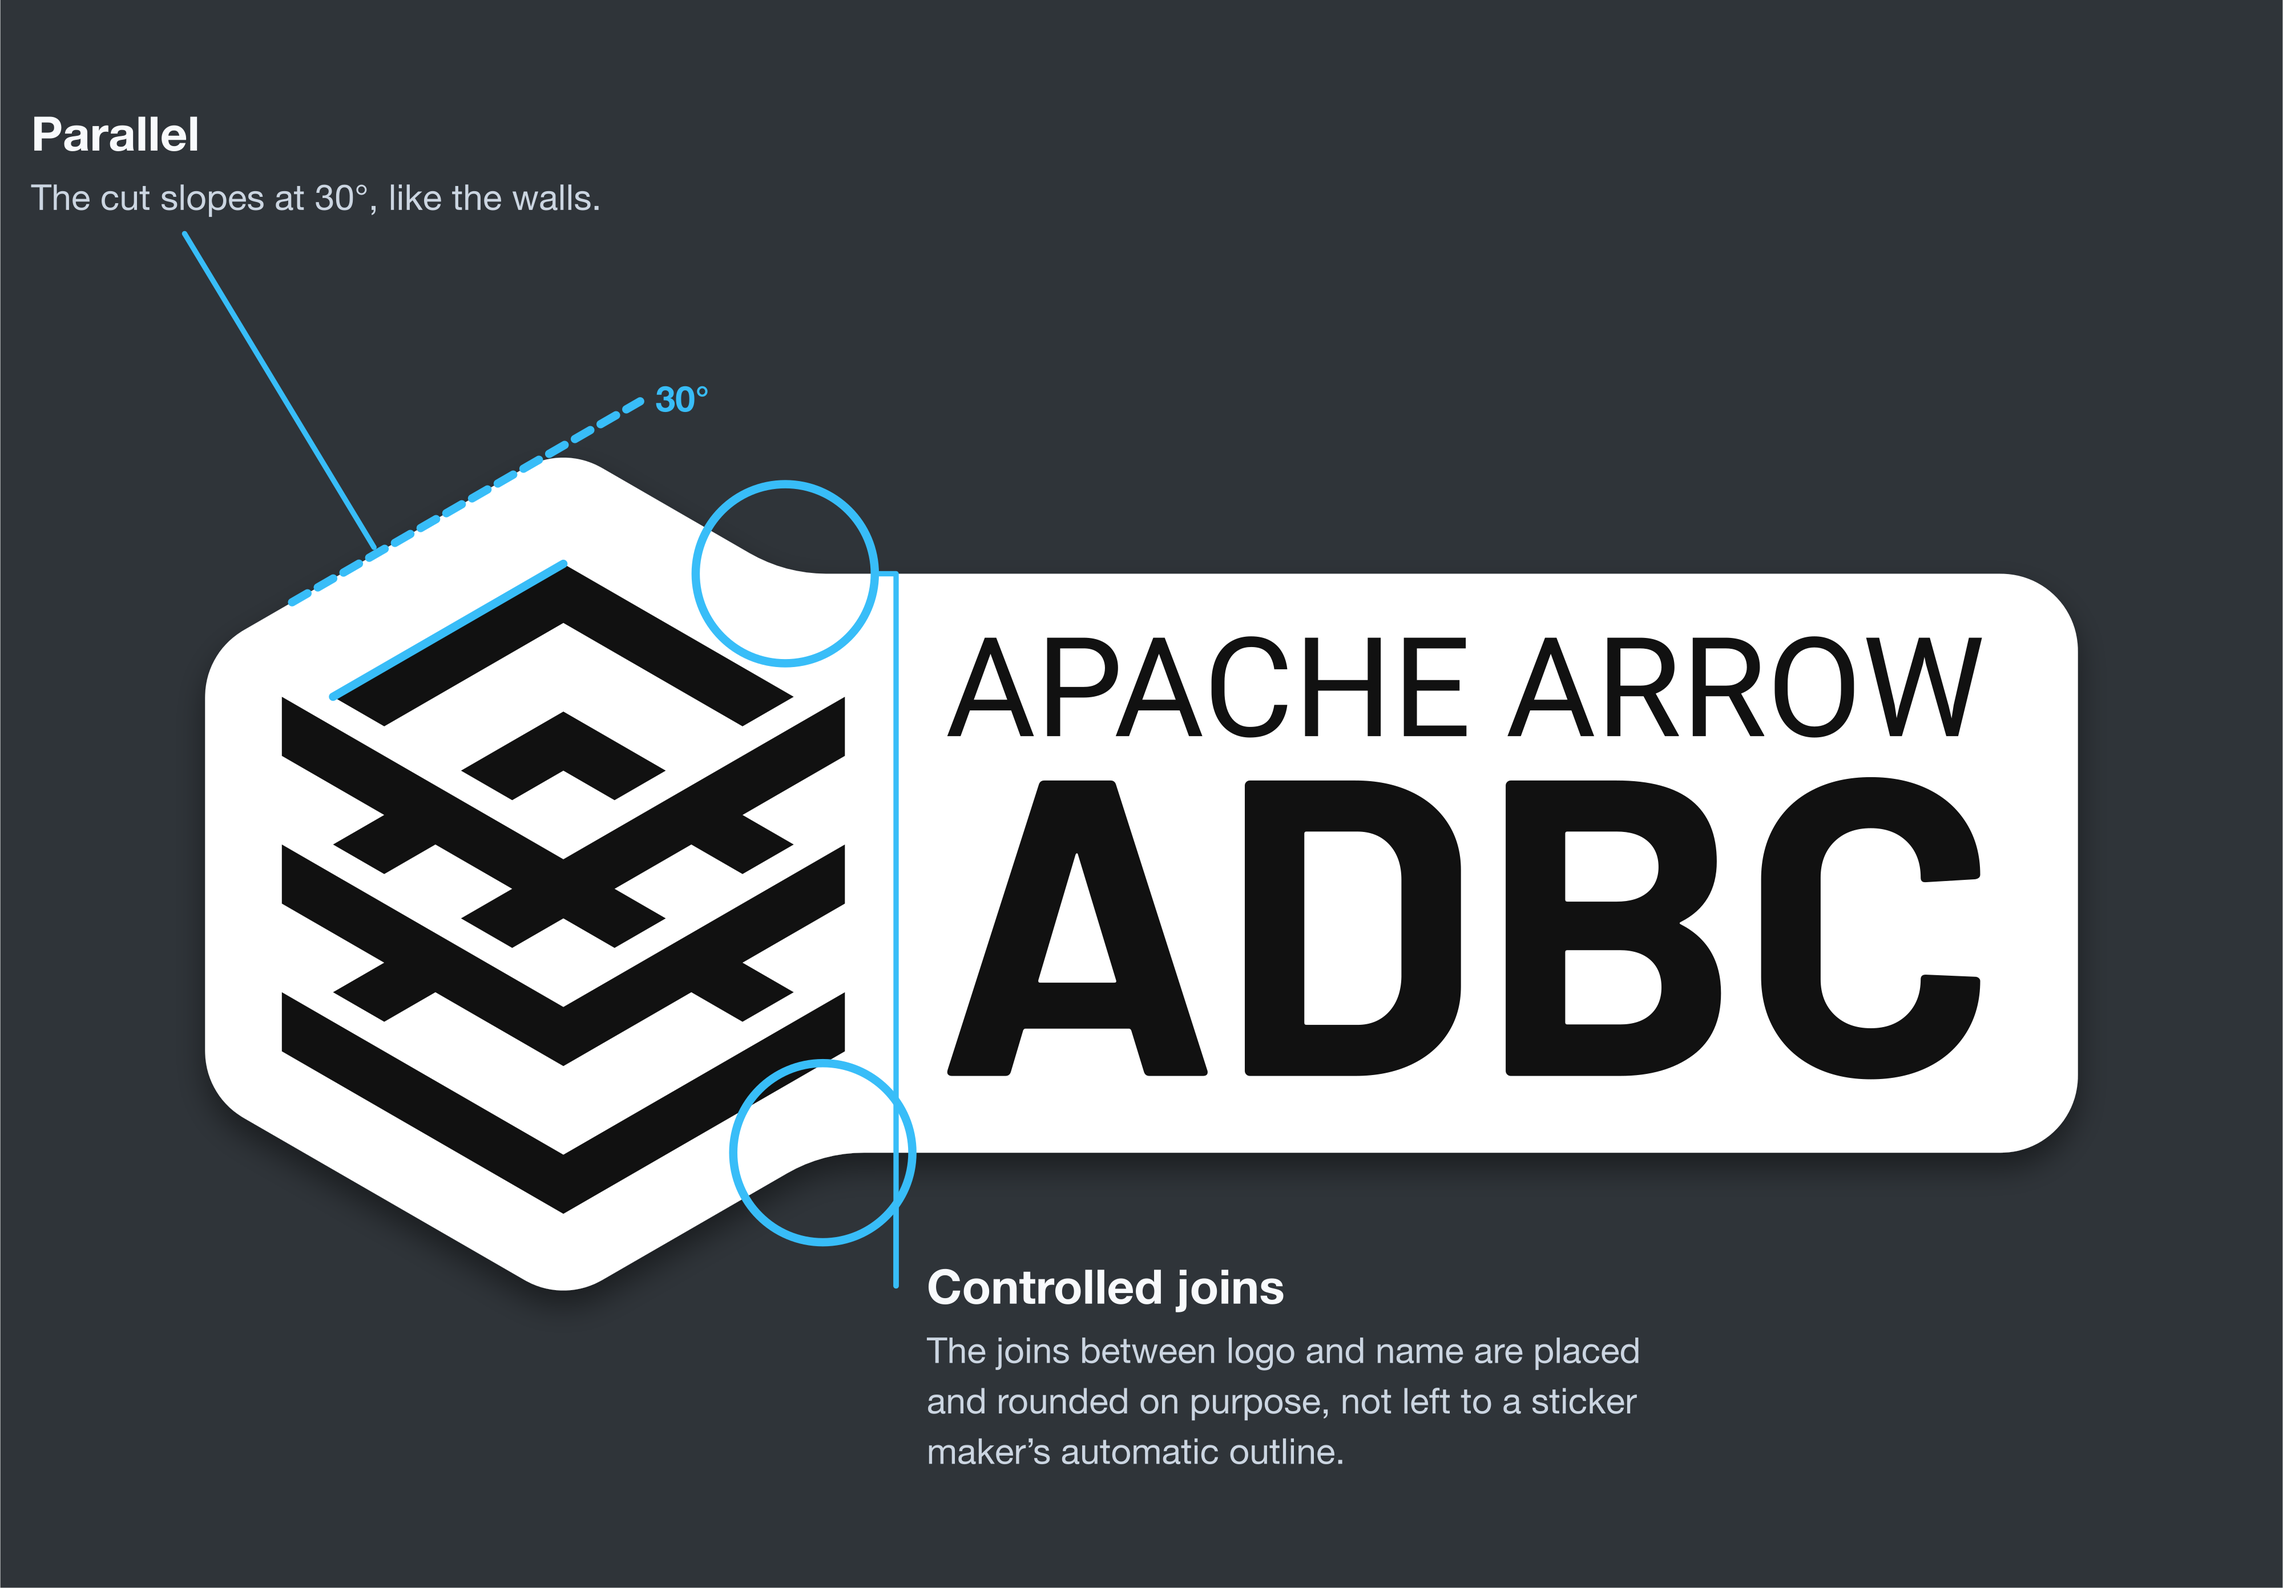
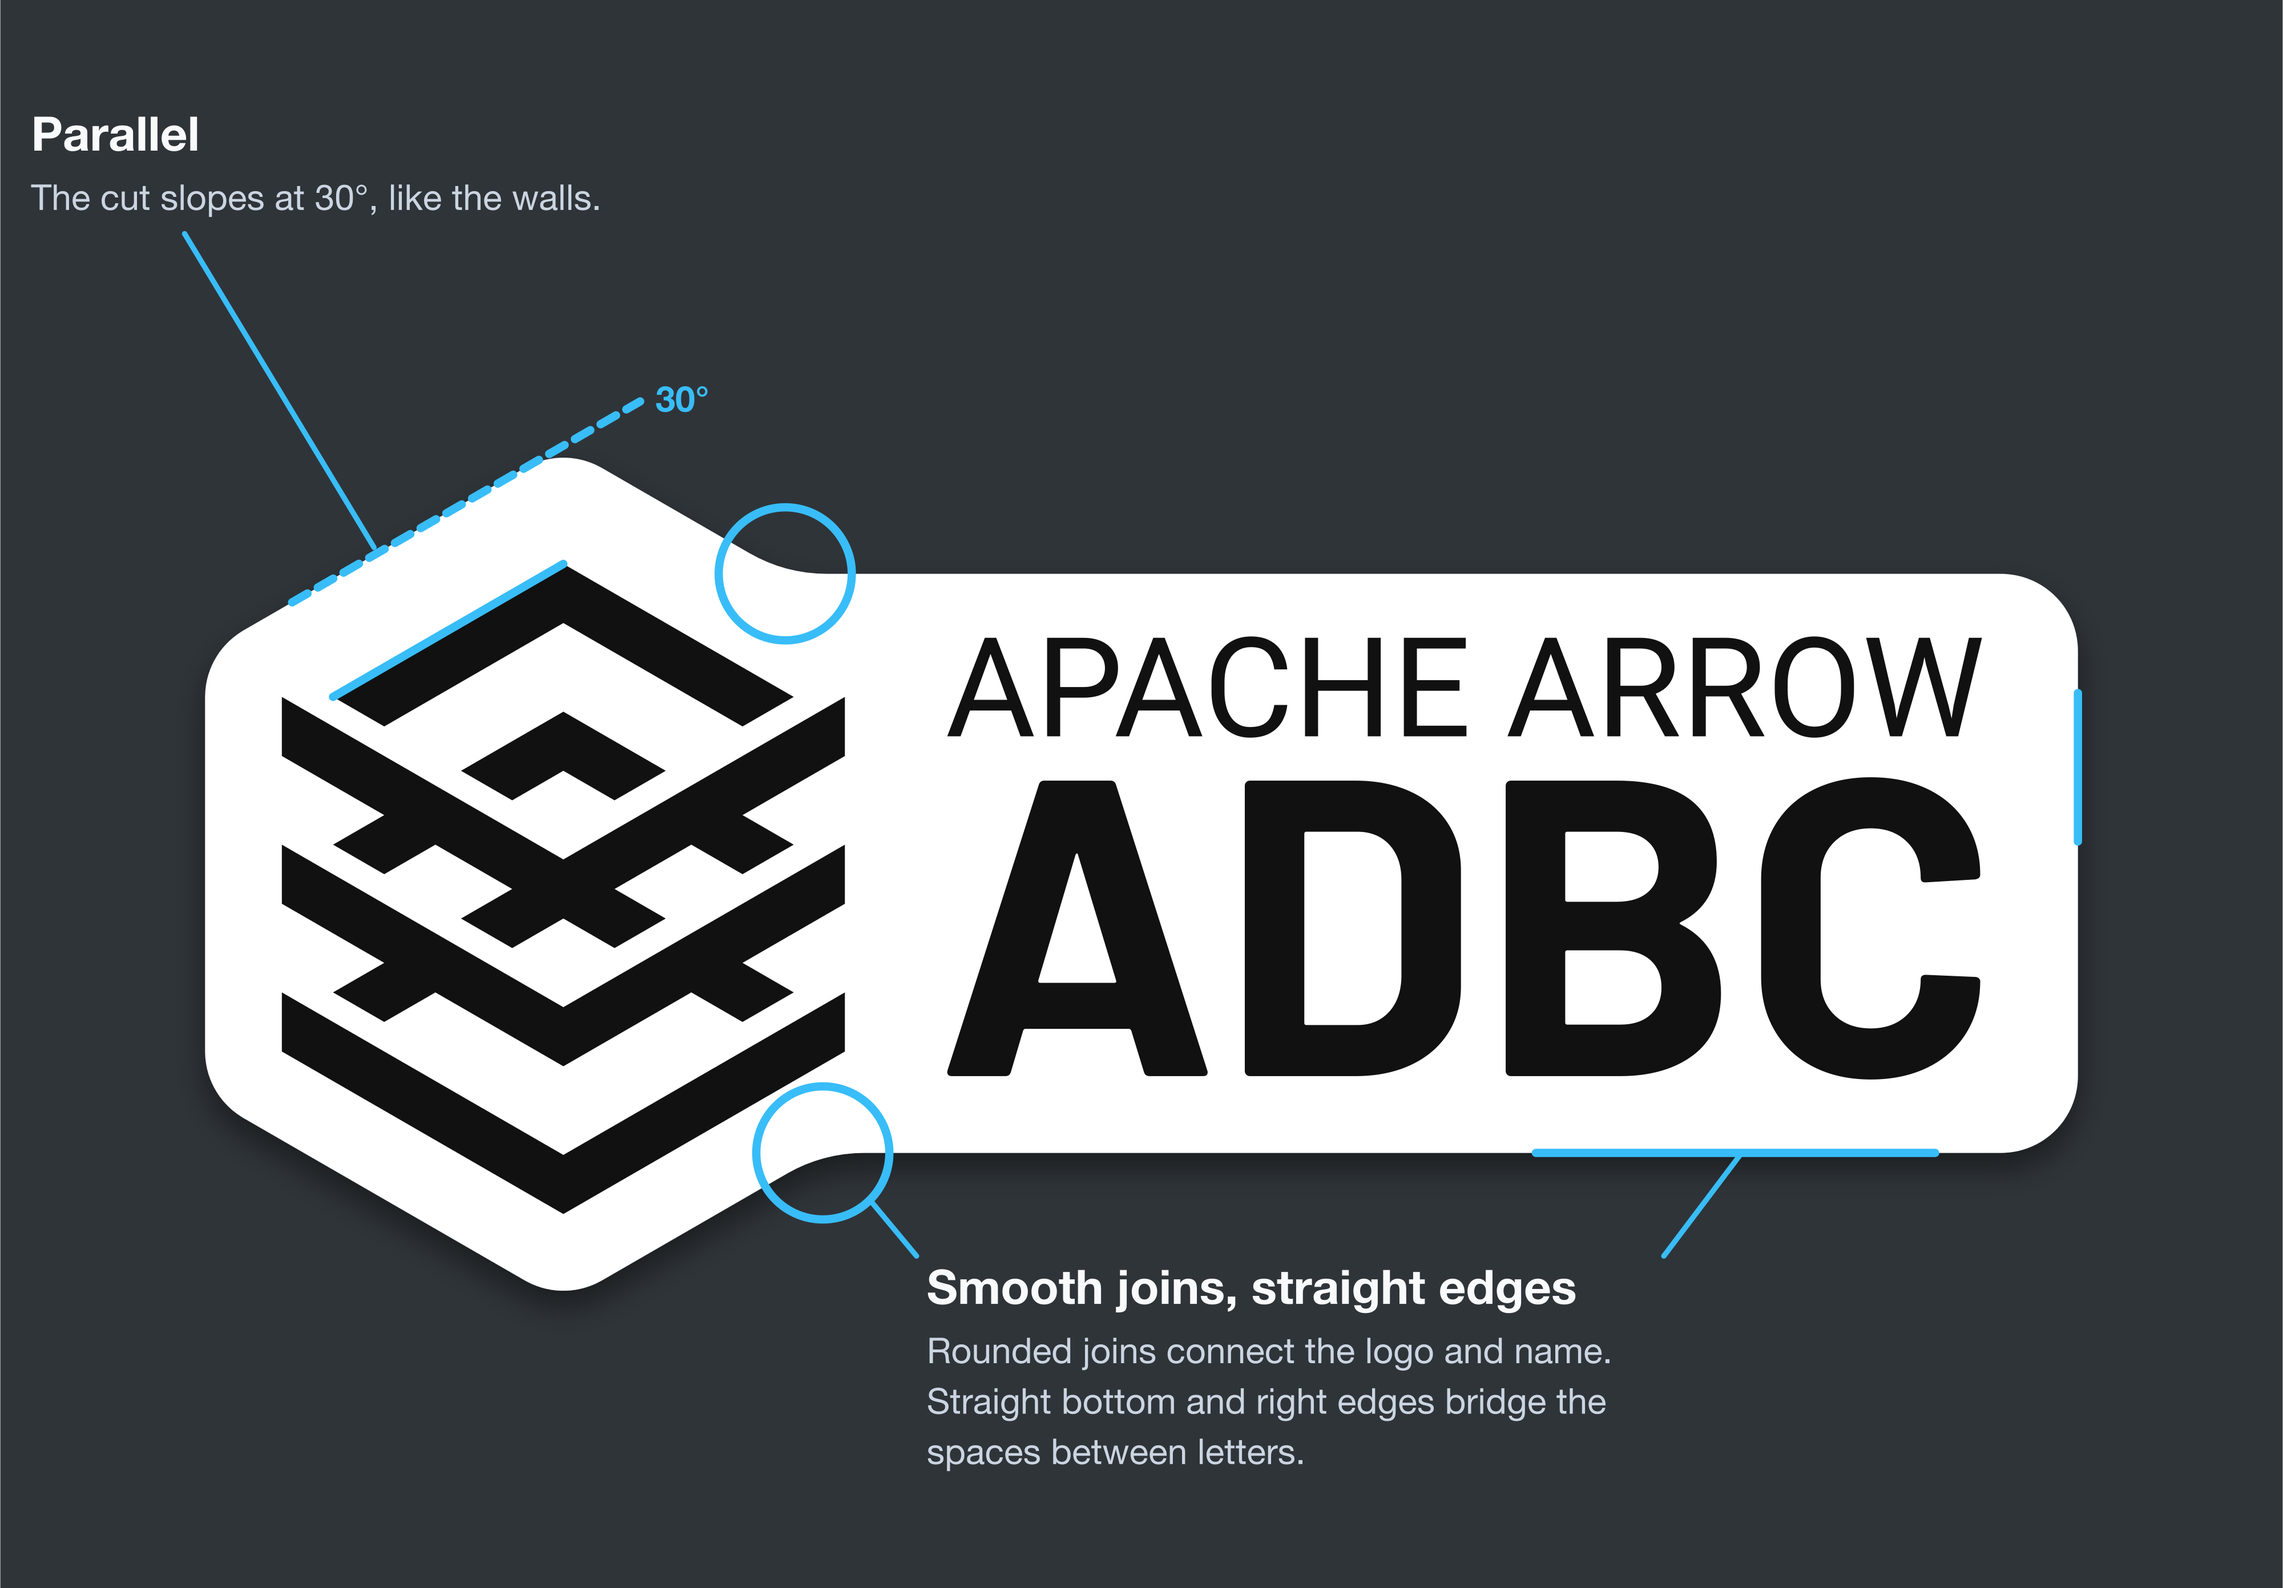
docs: minor improvements to die cut sticker images

diff --git a/docs/source/visual_identity.rst b/docs/source/visual_identity.rst
@@ -179,9 +179,9 @@ Usage
 - Use the same isometric logomark in every variant, and don't redraw it at
   another angle. Its 30° edges are what let it sit evenly in the hex badge's
   hexagon and inside the sticker's cut.
-- For stickers, use the supplied die-cut file. A sticker maker's automatic
-  outline decides the cut's angles and joins for itself; the approved cut runs
-  parallel to the walls and places each join deliberately.
+- For stickers, use the supplied die-cut file. An automatic outline can change
+  the edge angles and create unwanted pinches at joins and between letters.
+  The approved cut runs parallel to the walls and places each join deliberately.
 - In a circle, such as an avatar on GitHub, Slack, or social media, use the
   logomark, not the lockup. Fit it inside the square inscribed in the circle,
   about 70% of the circle's width, centred on the whole mark, top edge
@@ -194,8 +194,8 @@ Usage
    .. grid-item-card:: Do
 
       .. image:: _static/visual_identity/adbc-lockup-horizontal-sticker-do.png
-         :alt: The approved die-cut sticker, with notes on its edge angle and
-               its joins
+         :alt: The approved die-cut sticker, annotated to show its parallel 30°
+               edge, rounded logo/name joins, and straight bottom and right edges
          :width: 100%
          :align: center
 
@@ -203,7 +203,9 @@ Usage
 
       .. image:: _static/visual_identity/adbc-lockup-horizontal-sticker-dont.png
          :alt: A sticker with an automatically drawn outline, crossed out,
-               with notes on its edge angle and its pinches
+               with notes on its mismatched edge angle and unwanted pinches
+               between the logo and name, between letters, and along
+               the right edge
          :width: 100%
          :align: center
 
